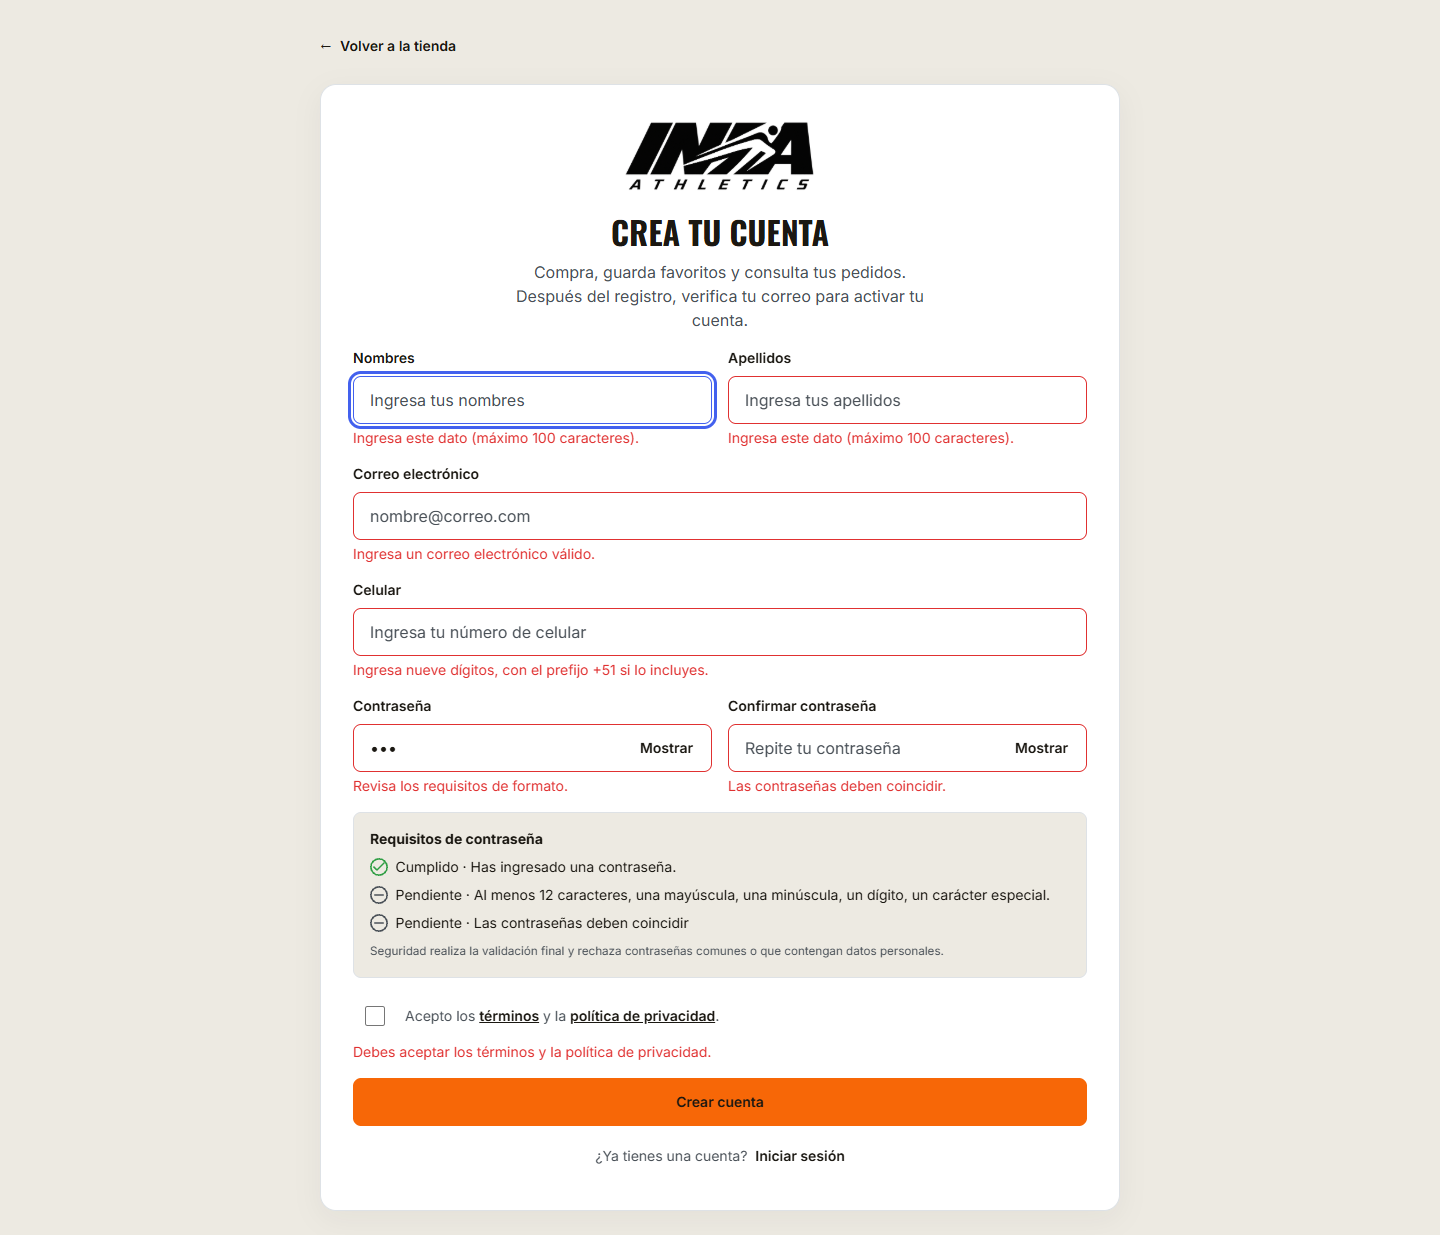
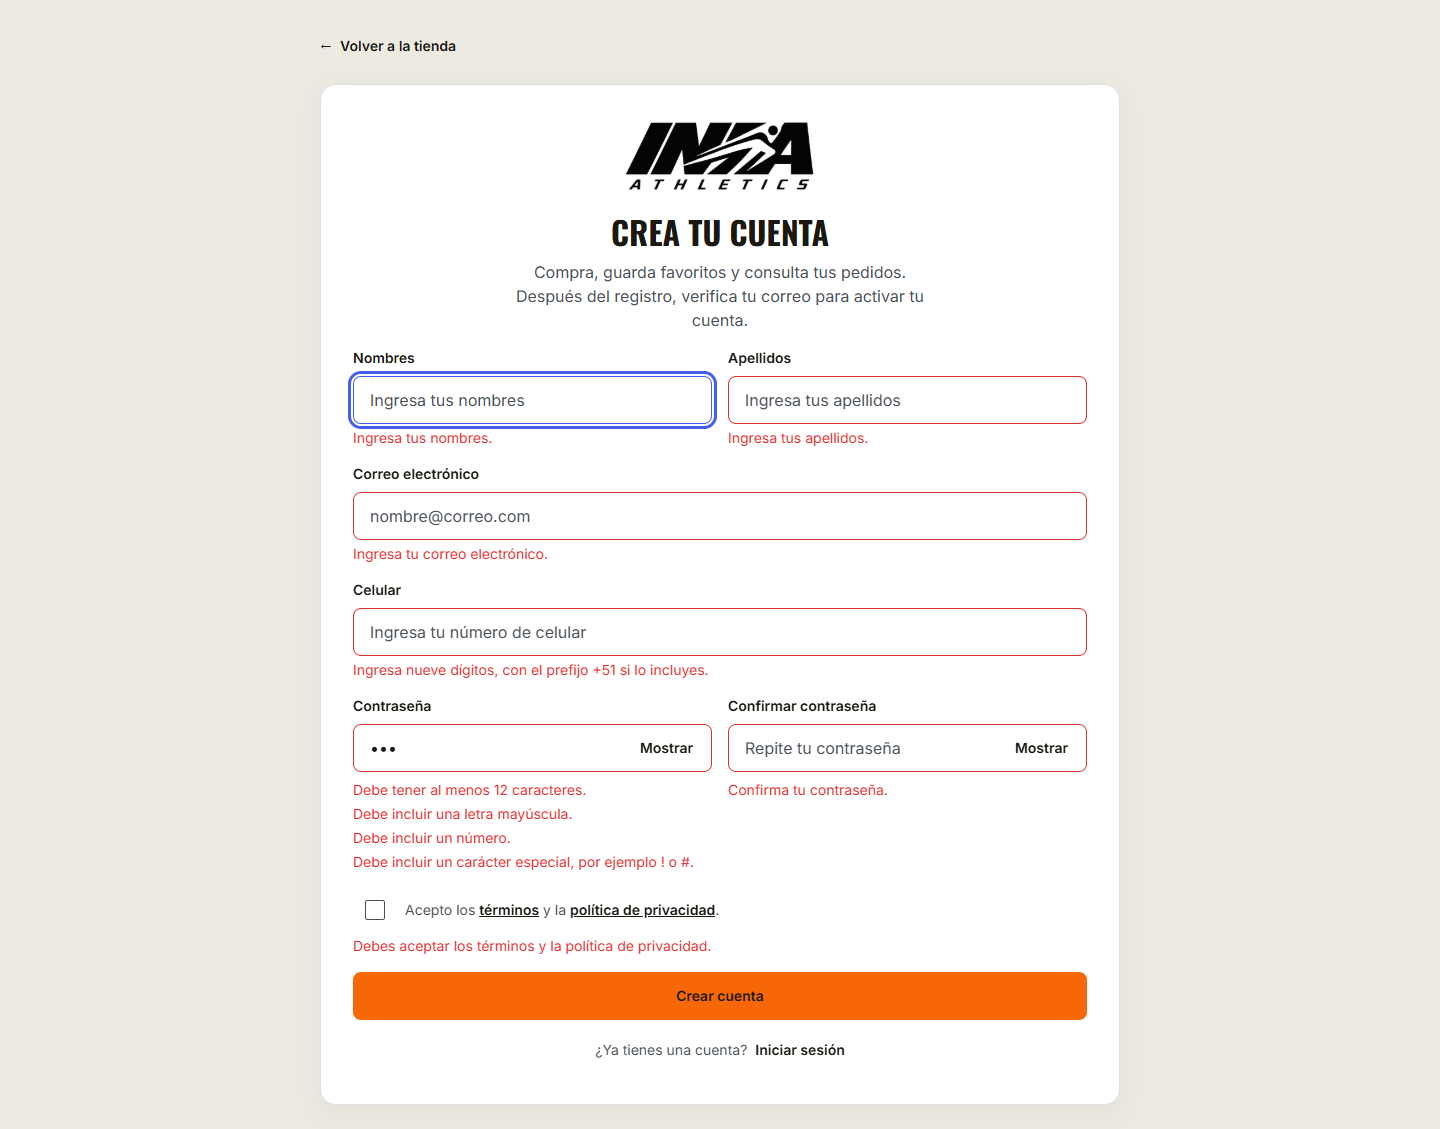
fix(auth): separar los mensajes de requisitos de contraseña del campo
El bloque de mensajes rojos bajo la contraseña y su confirmación (V-002) se separa del campo con el token spacing/sm (8 px) en lugar de 4 px. Se regeneran las capturas de V-002 que cambian.

Refs #150

Changed region(s): [[0.2188, 0.031, 0.7812, 0.961], [0.7188, 0.589, 0.75, 0.62]]

diff --git a/src/app/globals.css b/src/app/globals.css
@@ -3098,7 +3098,8 @@ body:has(.checkout-logout-dialog[open]) { overflow: hidden; }
 }
 
 /* Ajuste Jim 21/11 · V-002: un mensaje rojo por requisito incumplido, sin checklist. */
-.field-errors { list-style: none; margin: 0; padding: 0; }
+.field-errors { list-style: none; margin: var(--spacing-sm) 0 0; padding: 0; }
+.field-errors .field-error:first-child { margin-top: 0; }
 .field-errors .field-error { animation: field-error-in .15s ease-out; }
 .field-caps-lock { color: var(--warning-text, #8a4b00); font-weight: 600; }
 @keyframes field-error-in { from { opacity: 0; transform: translateY(-2px); } to { opacity: 1; transform: none; } }
